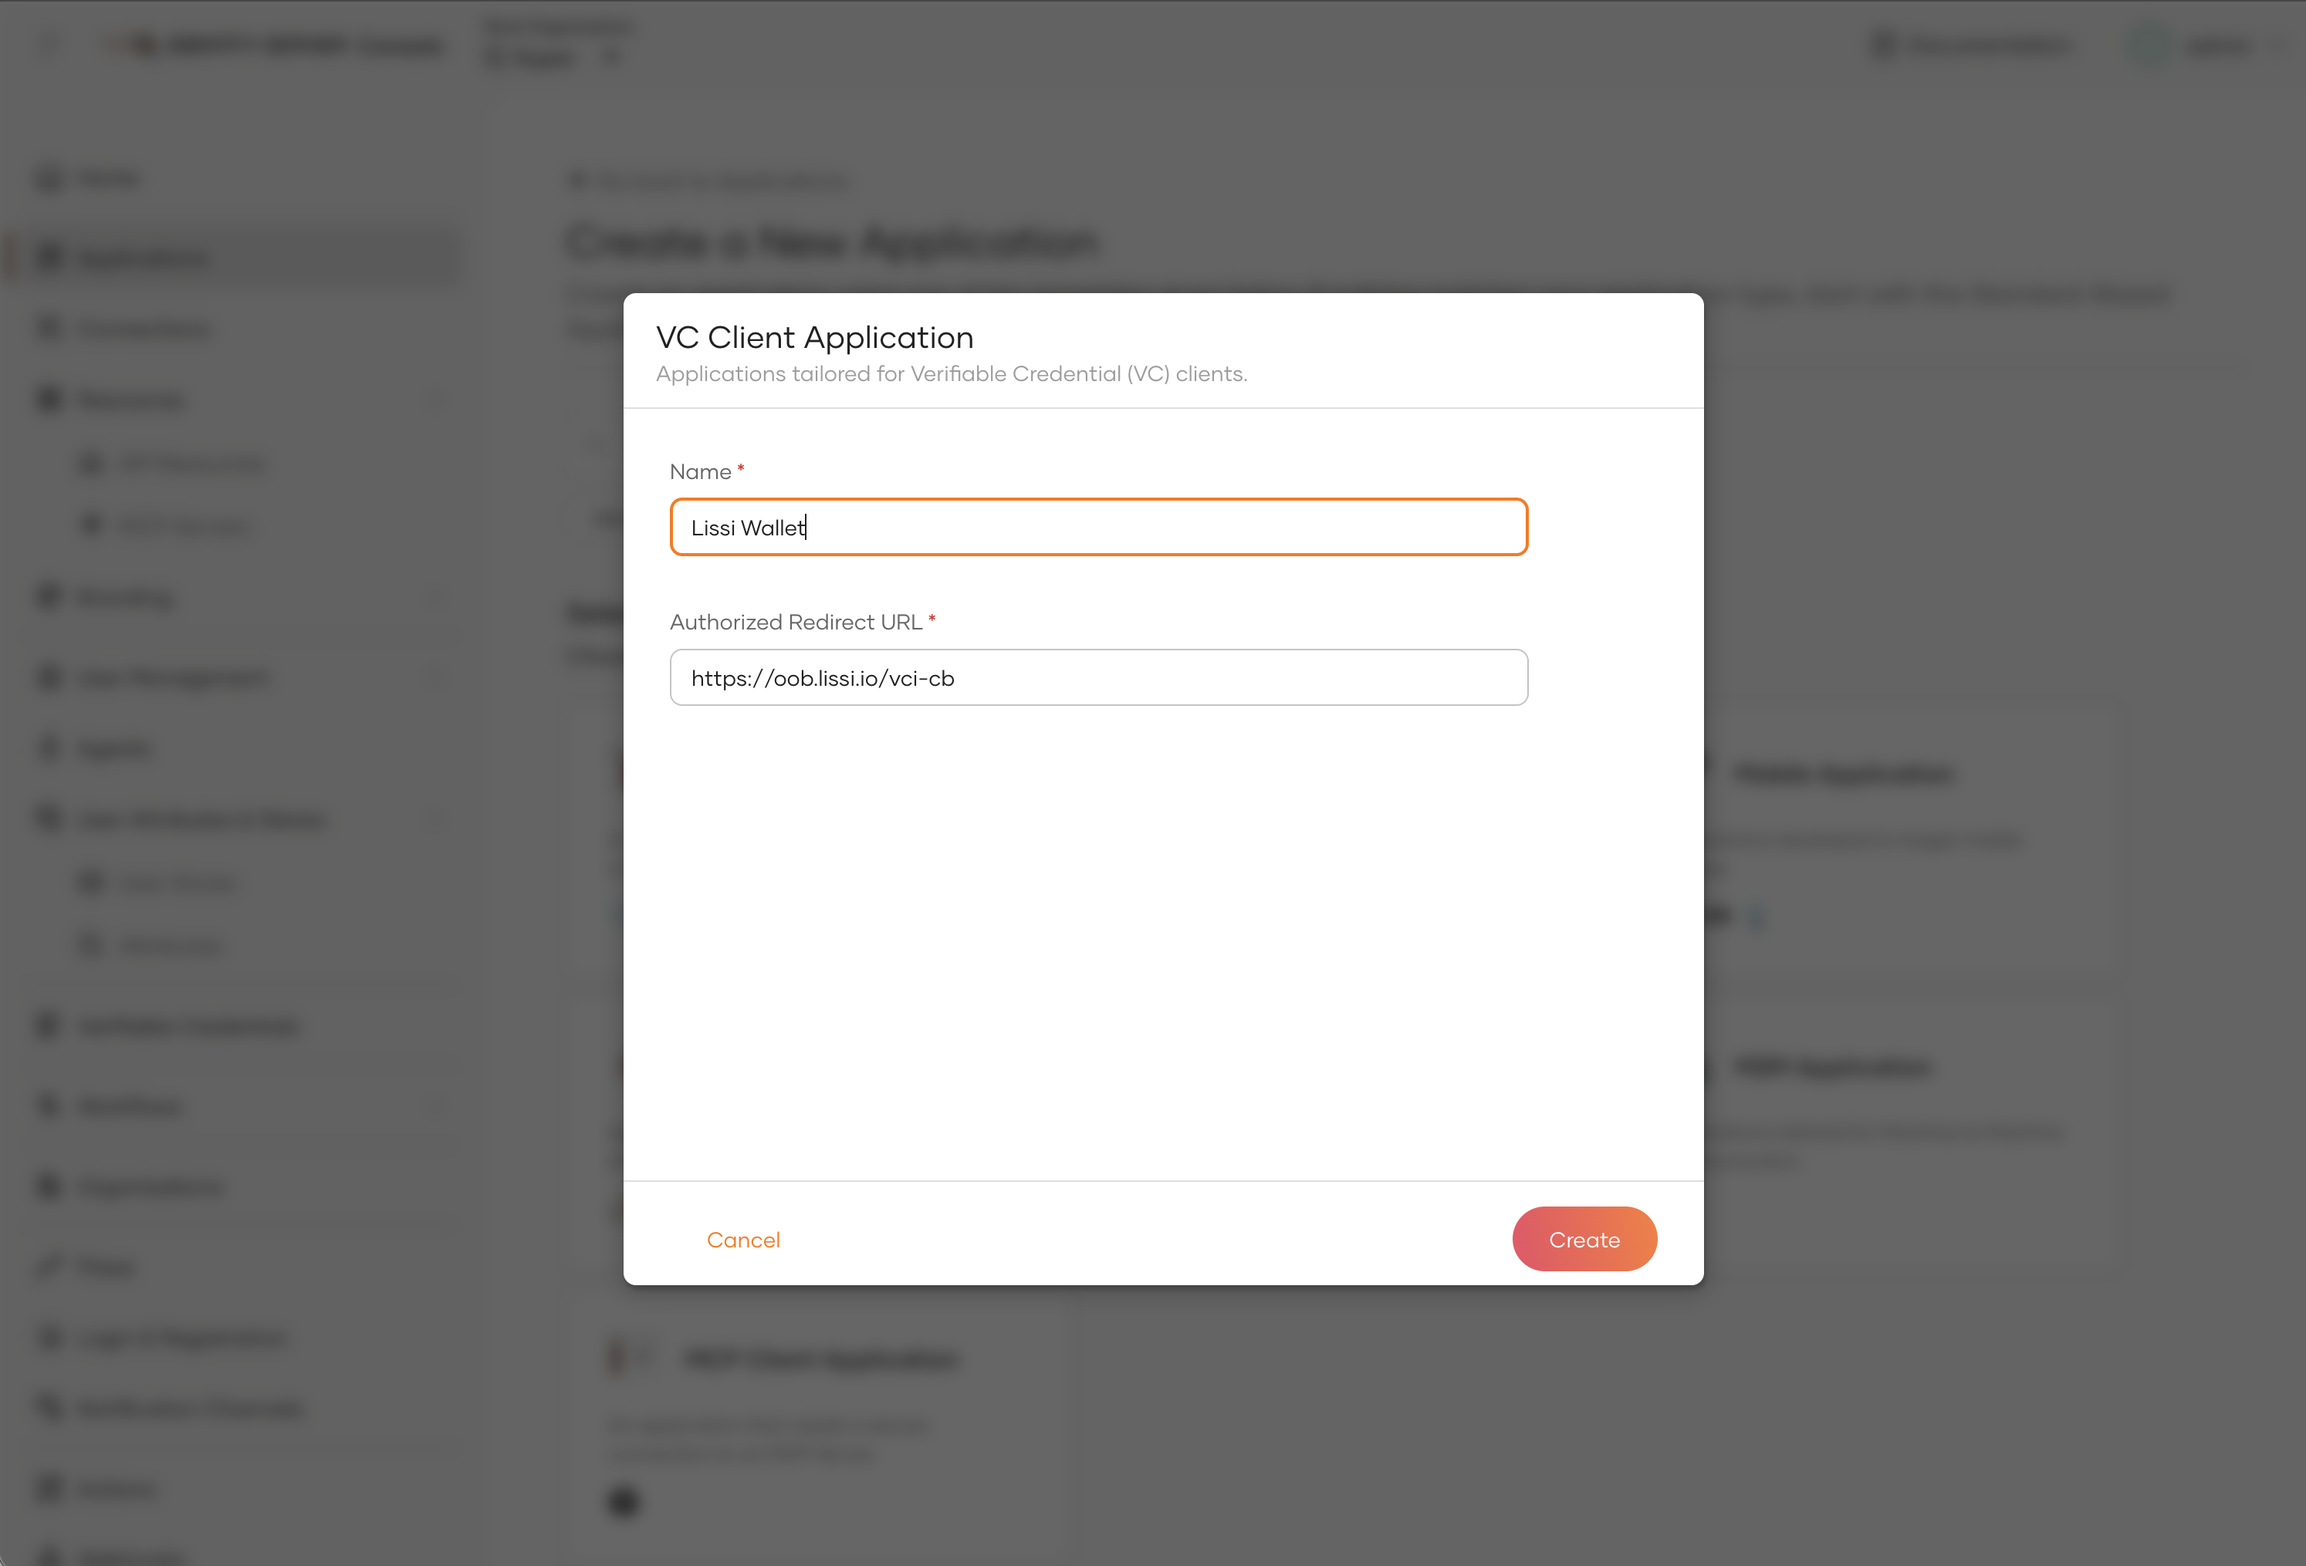
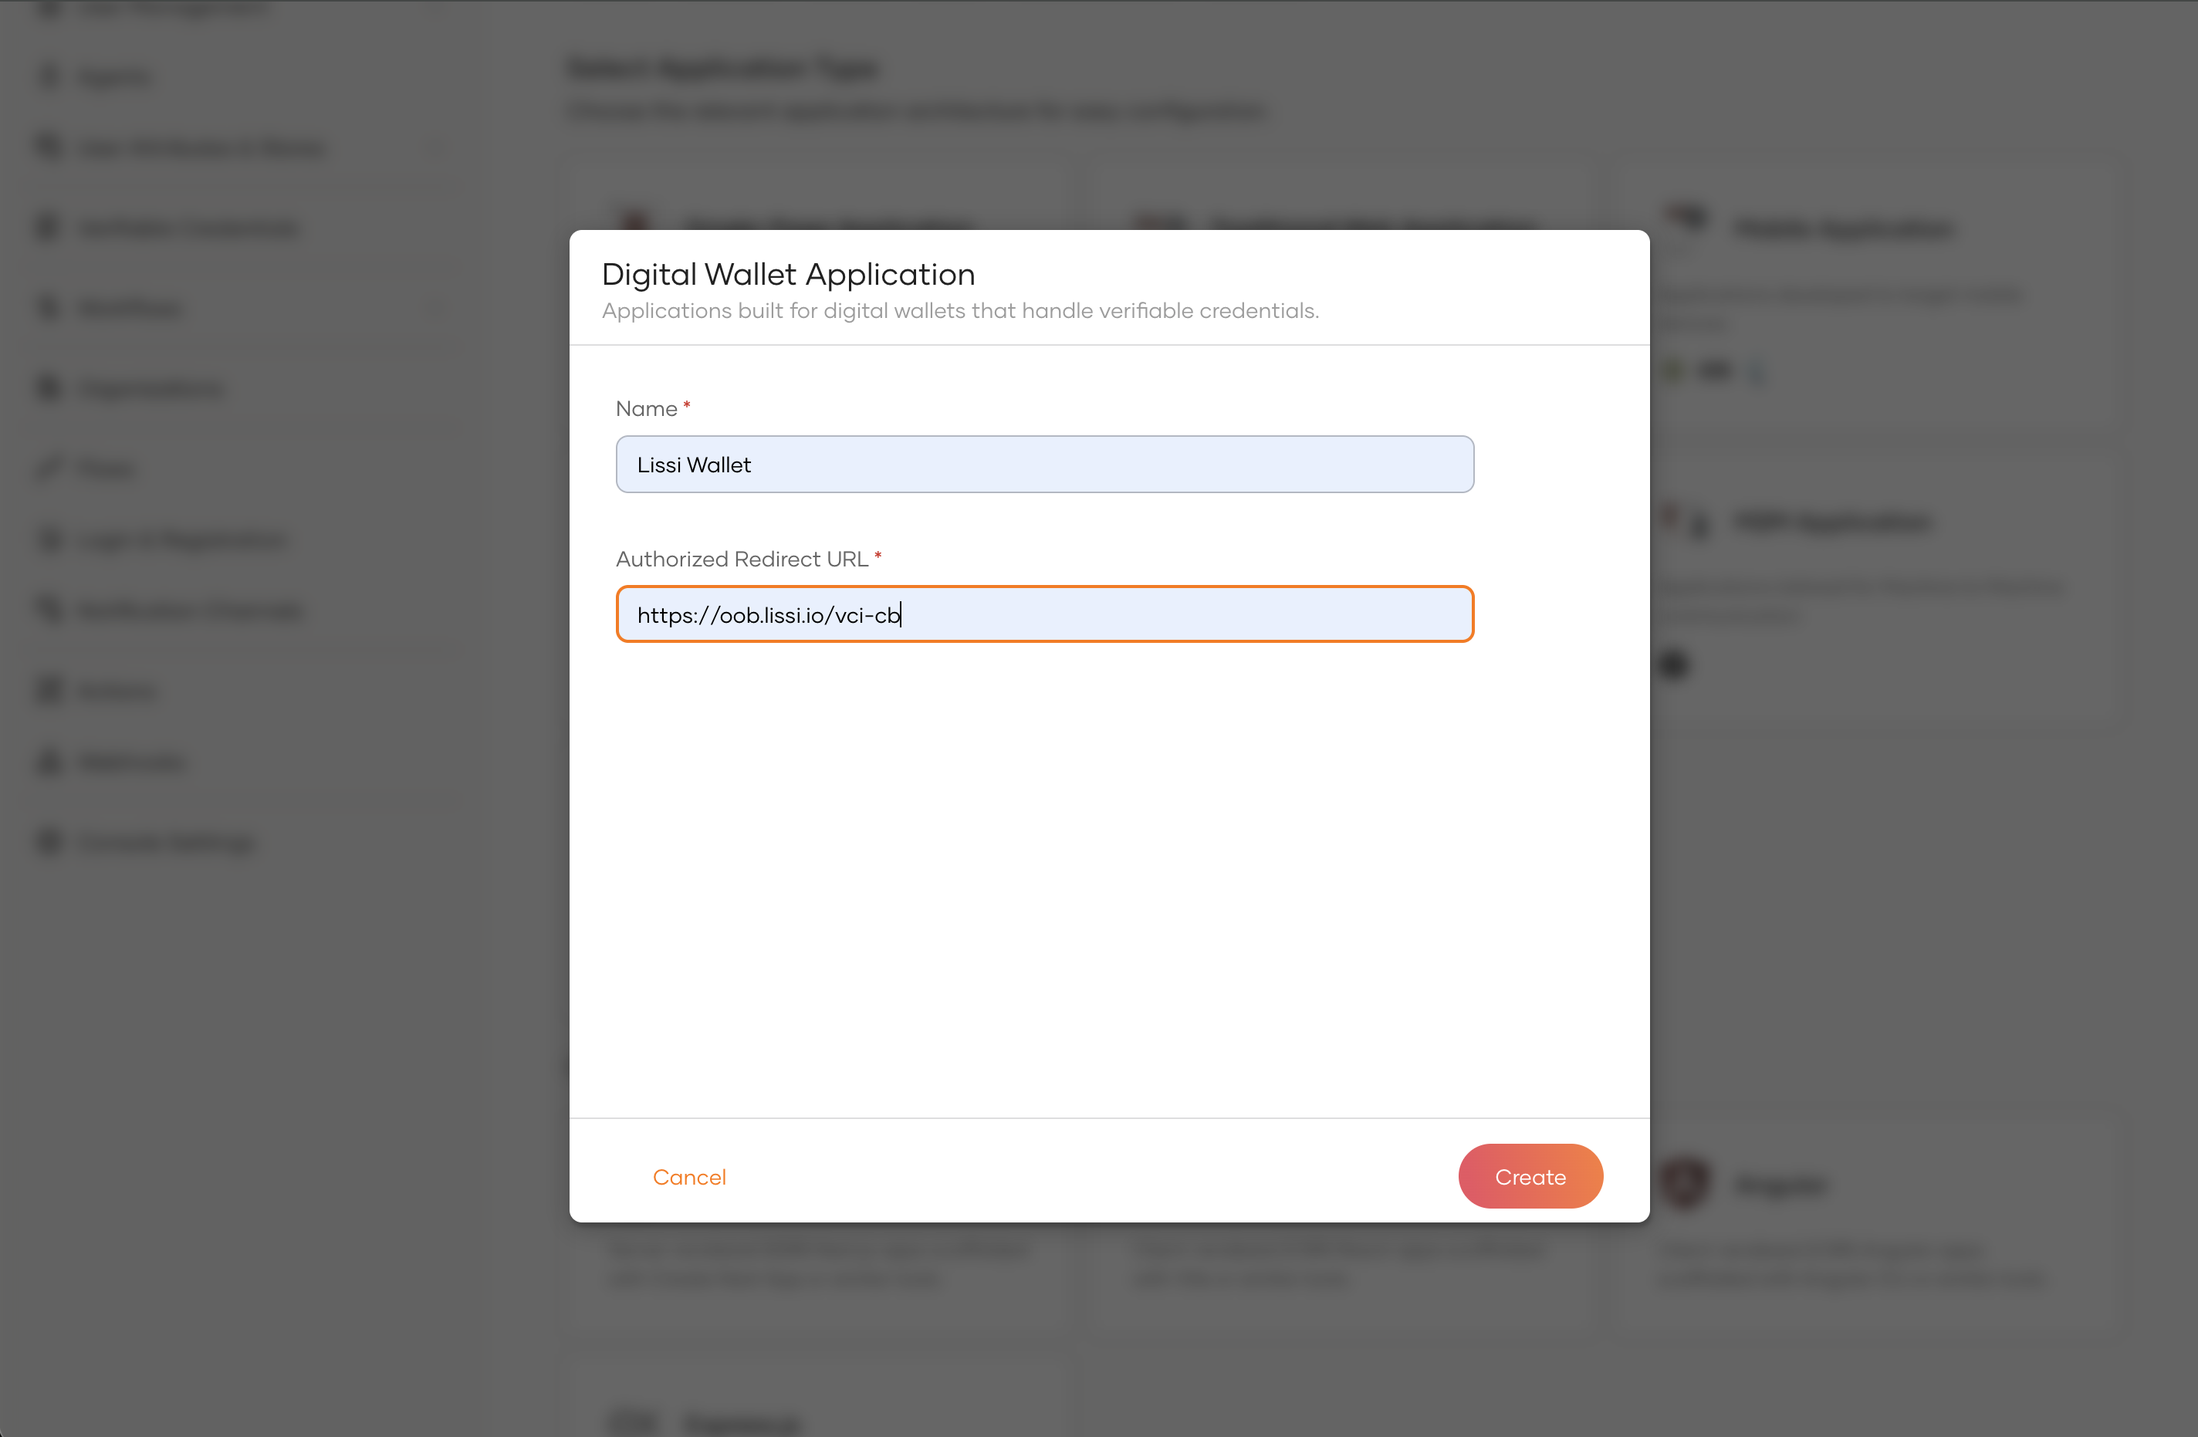
addess commets

Changed region(s): [[0.25, 0.1557, 0.7812, 0.8722], [0.75, 0.1246, 0.7812, 0.1557], [0.25, 0.9345, 0.2812, 0.9656]]

diff --git a/en/includes/guides/verifiable-credentials/issue-vc.md b/en/includes/guides/verifiable-credentials/issue-vc.md
@@ -6,30 +6,12 @@ This guide walks you through configuring {{ product_name }} to issue a verifiabl
 
 Before you begin, ensure the following:
 
-- {{ product_name }} is running and accessible.
 - An OID4VCI-compatible digital wallet is installed on your device.
-- A user account exists in {{ product_name }} whose attributes you want to include in the credential.
+- A user exists in {{ product_name }} whose attributes you want to include in the credential.
 
-## Step 1: Configure VC attribute mappings
+## Step 1: Create a credential template
 
-{{ product_name }} maps user profile attributes to verifiable credential claims using the **Verifiable Credentials** attribute dialect. Default mappings are pre-loaded for common claims such as `given_name`, `family_name`, and `email`.
-
-To view or update the attribute mappings:
-
-1. On the {{ product_name }} Console, go to **User Attributes & Stores** > **Attributes**.
-
-2. Under **Manage Attribute Dialects**, click **View** on the **Verifiable Credentials** dialect.
-
-    ![VC attribute dialect page]({{base_path}}/assets/img/guides/verifiable-credentials/vc-attribute-dialect.png){: width="700" style="display: block; margin: 0; border: 0.3px solid lightgrey;"}
-
-3. Review the available claim mappings. Each mapped claim corresponds to a local claim URI (e.g., `http://wso2.org/claims/givenname`) that is resolved from the user's profile at issuance time.
-
-!!! note
-    You can add custom claim mappings if you need to include additional user attributes in your credentials.
-
-## Step 2: Create a credential template
-
-A **credential template** defines the structure, format, and included attributes of a verifiable credential. Each template is identified by a unique scope name that wallets use to request the credential.
+A **credential template** defines the name, format, and included attributes of a verifiable credential.
 
 To create a credential template:
 
@@ -45,23 +27,23 @@ To create a credential template:
     | :---- | :---------- | :------ |
     | **Identifier** | A unique name that becomes the credential scope. Use lowercase with underscores. | `work_id` |
     | **Display Name** | A human-readable name shown in the wallet. | `Work ID` |
-    | **User Attributes** | The attributes from the VC dialect to include in the credential. | `given_name`, `family_name`, `email` |
+    | **User Attributes** | The user attributes include in the credential. | `given_name`, `family_name`, `email` |
 
 4. Click **Create** to save the template.
 
     ![Work ID credential template detail page]({{base_path}}/assets/img/guides/verifiable-credentials/credential-template-detail.png){: width="700" style="display: block; margin: 0; border: 0.3px solid lightgrey;"}
 
-## Step 3: Register a VC client application
+## Step 2: Register a Digital wallet application
 
-A **VC Client Application** represents the digital wallet in {{ product_name }}. It holds the OAuth 2.0 client configuration that the wallet uses to exchange authorization codes for access tokens.
+A **Digital wallet application** represents the digital wallet in {{ product_name }}. It holds the OAuth 2.0 client configuration that the wallet uses to exchange authorization codes for access tokens.
 
-To register a VC client application:
+To register a Digital wallet application:
 
 1. On the {{ product_name }} Console, go to **Applications** and click **+ New Application**.
 
-2. Select **VC Client Application** from the application type list.
+2. Select **Digital Wallet Application** from the application type list.
 
-    ![Application type selection highlighting VC Client Application]({{base_path}}/assets/img/guides/verifiable-credentials/vc-client-app-type.png){: width="700" style="display: block; margin: 0; border: 0.3px solid lightgrey;"}
+    ![Application type selection highlighting Digital Wallet Application]({{base_path}}/assets/img/guides/verifiable-credentials/vc-client-app-type.png){: width="700" style="display: block; margin: 0; border: 0.3px solid lightgrey;"}
 
 3. Fill in the application details:
 
@@ -72,16 +54,16 @@ To register a VC client application:
 
 4. Click **Create**.
 
-    ![VC Client Application creation dialog]({{base_path}}/assets/img/guides/verifiable-credentials/vc-client-app-create.png){: width="700" style="display: block; margin: 0; border: 0.3px solid lightgrey;"}
+    ![Digital Wallet Application creation dialog]({{base_path}}/assets/img/guides/verifiable-credentials/vc-client-app-create.png){: width="700" style="display: block; margin: 0; border: 0.3px solid lightgrey;"}
 
 !!! tip
     Refer to the [tested wallets](#tested-wallets) section below for the redirect URLs of Lissi, Heidi, and Inji wallets.
 
-## Step 4: Authorize the credential to the application
+## Step 3: Allow the wallet to request the credential
 
-Once the VC client application is created, you must authorize it to issue a specific credential template.
+Once the Digital Wallet application is created, you must allow it to request the credential.
 
-1. In the newly created application, click **Authorize Verifiable Credential**.
+1. In the newly created application, go to **Authorize** tab and  click **Authorize Verifiable Credential**.
 
     ![Authorize Verifiable Credential dialog]({{base_path}}/assets/img/guides/verifiable-credentials/authorize-vc-dialog.png){: width="700" style="display: block; margin: 0; border: 0.3px solid lightgrey;"}
 
@@ -94,9 +76,9 @@ Once the VC client application is created, you must authorize it to issue a spec
 
 3. Click **Finish**.
 
-The application is now authorized to request and receive the `work_id` credential scope on behalf of an authenticated user.
+The application is now allowed to request the `work_id` credential scope on behalf of an authenticated user.
 
-## Step 5: Retrieve the credential offer URI
+## Step 4: Retrieve the credential offer URI
 
 The **credential offer URI** is a link the wallet follows to begin the issuance flow.
 
@@ -121,7 +103,7 @@ To retrieve the offer URI:
     The wallets listed below have been verified for compatibility with {{ product_name }}. Any digital wallet that implements the [OID4VCI specification](https://openid.net/specs/openid-4-verifiable-credential-issuance-1_0.html){:target="_blank"} should be able to receive credentials — you are not limited to these wallets.
 
 !!! note
-    These wallets require a **specific client ID** to be set when registering the VC client application. The {{ product_name }} Console does not support defining a custom client ID at application creation time. Use the [Application Management API]({{base_path}}/apis/application-rest-api/) to create these clients with the required client ID and redirect URI.
+    These wallets require a **specific client ID** to be set when registering the Digital wallet application. The {{ product_name }} Console does not support defining a custom client ID at application creation time. Use the [Application Management API]({{base_path}}/apis/application-rest-api/) to create these clients with the required client ID and redirect URI.
 
 === "Lissi"
 
@@ -131,9 +113,9 @@ To retrieve the offer URI:
     | **Redirect URI** | `https://oob.lissi.io/vci-cb` |
 
     ??? note "Prerequisite: Register the `openid_credential` authorization type"
-        The Lissi wallet sends an `authorization_details` parameter using the [Rich Authorization Requests (RAR)]({{base_path}}/guides/authorization/rich-authorization-requests/#configuring-your-application-for-rar) mechanism when it initiates the PAR request. For this to succeed, the `openid_credential` authorization type must be registered in {{ product_name }} and authorized for your VC client application.
+        The Lissi wallet sends an `authorization_details` parameter using the [Rich Authorization Requests (RAR)]({{base_path}}/guides/authorization/rich-authorization-requests/#configuring-your-application-for-rar) mechanism when it initiates the PAR request. For this to succeed, the `openid_credential` authorization type must be registered in {{ product_name }} and authorized for your Digital wallet application.
 
-        Register the following schema as a new authorization type, then authorize it for the VC client application you created in [Step 3](#step-3-register-a-vc-client-application). See [Configuring your application for RAR]({{base_path}}/guides/authorization/rich-authorization-requests/#configuring-your-application-for-rar) for instructions.
+        Register the following schema as a new authorization type, then authorize it for the Digital wallet application you created in [Step 2](#step-2-register-a-vc-client-application). See [Configuring your application for RAR]({{base_path}}/guides/authorization/rich-authorization-requests/#configuring-your-application-for-rar) for instructions.
 
         ```json
         {
@@ -221,3 +203,20 @@ To retrieve the offer URI:
 
 - **Understand the protocol**: Learn the technical details of the issuance flow in the [OID4VCI concept page]({{base_path}}/references/concepts/oid4vci/).
 - **Manage VC attributes**: Customize the claims included in your credentials via [VC attribute mappings]({{base_path}}/guides/users/attributes/).
+
+## Configure VC attribute mappings
+
+{{ product_name }} maps user profile attributes to verifiable credential claims using the **Verifiable Credentials** attribute dialect. Default mappings are pre-loaded for common claims such as `given_name`, `family_name`, and `email`.
+
+To view or update the attribute mappings:
+
+1. On the {{ product_name }} Console, go to **User Attributes & Stores** > **Attributes**.
+
+2. Under **Manage Attribute Dialects**, click **View** on the **Verifiable Credentials** dialect.
+
+    ![VC attribute dialect page]({{base_path}}/assets/img/guides/verifiable-credentials/vc-attribute-dialect.png){: width="700" style="display: block; margin: 0; border: 0.3px solid lightgrey;"}
+
+3. Review the available claim mappings. Each mapped claim corresponds to a local claim URI (e.g., `http://wso2.org/claims/givenname`) that is resolved from the user's profile at issuance time.
+
+!!! note
+    You can add custom claim mappings if you need to include additional user attributes in your credentials.

diff --git a/en/includes/guides/verifiable-credentials/index.md b/en/includes/guides/verifiable-credentials/index.md
@@ -1,6 +1,6 @@
 # Verifiable Credentials
 
-Verifiable Credentials (VCs) are tamper-evident digital credentials that allow anyone to verify information about a subject (such as a user) without contacting the credential issuer directly. {{ product_name }} supports issuing verifiable credentials to digital wallets using the **OpenID for Verifiable Credential Issuance (OID4VCI)** standard.
+Verifiable Credentials (VCs) are tamper-evident digital credentials that allow anyone to verify information about a subject (such as a user) without contacting the credential issuer directly. {{ product_name }} supports issuing verifiable credentials to digital wallets using the [**OpenID for Verifiable Credential Issuance (OID4VCI)**](https://openid.net/specs/openid-4-verifiable-credential-issuance-1_0.html) standard.
 
 ## Why verifiable credentials?
 
@@ -10,6 +10,16 @@ Traditional identity verification often requires real-time communication with th
 - **User control** — Holders store credentials in their own digital wallets and choose when and with whom to share them.
 - **Selective disclosure** — With formats like Selective Disclosure JSON Web Token, holders can reveal only specific claims (e.g., prove their age without disclosing their full date of birth).
 - **Standards-based** — Built on open standards (OID4VCI, W3C Verifiable Credentials), ensuring interoperability across different systems and wallets.
+
+## Common use cases
+
+Verifiable credentials enable a wide range of real-world identity and trust scenarios:
+
+- **Authentication** — Users can authenticate to applications by presenting a verifiable credential from their wallet instead of using passwords or traditional identity providers. The verifier validates the cryptographic proof without contacting the issuer.
+
+- **Identity verification** — Organizations can issue credentials representing verified identity attributes (e.g., government ID, employee status, age verification) that users can present on demand—eliminating repeated identity checks across different services.
+
+- **Digital signatures** — Credentials can carry cryptographically signed claims that act as tamper-proof attestations, enabling use cases such as signing documents, authorizing transactions, or attesting to qualifications.
 
 ## How it works
 
